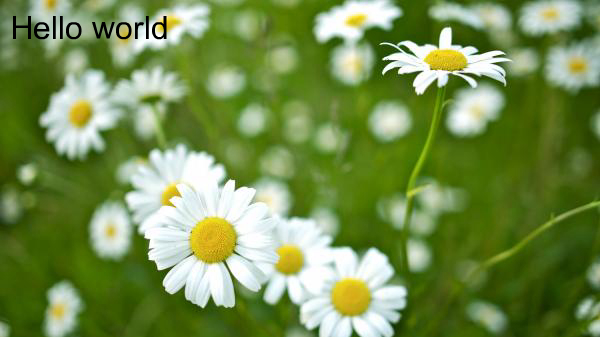
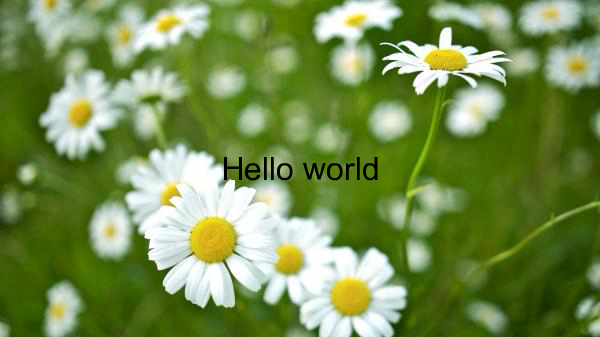
Modify function to adding watermatk at centre of image

Changed region(s): [[0.0, 0.0297, 0.3, 0.1187], [0.36, 0.4748, 0.63, 0.5341]]

diff --git a/app.js b/app.js
@@ -3,7 +3,12 @@ const Jimp = require('jimp');
 const addTextWatermarkToImage = async function (inputFile, outputFile, text) {
   const image = await Jimp.read(inputFile);
   const font = await Jimp.loadFont(Jimp.FONT_SANS_32_BLACK);
-  image.print(font, 10, 10, text);
+  const textData = {
+    text: text,
+    alignmentX: Jimp.HORIZONTAL_ALIGN_CENTER,
+    alignmentY: Jimp.VERTICAL_ALIGN_MIDDLE
+  };
+  image.print(font, 0, 0, textData, image.getWidth(), image.getHeight());
   await image.quality(100).writeAsync(outputFile);
 };
 
